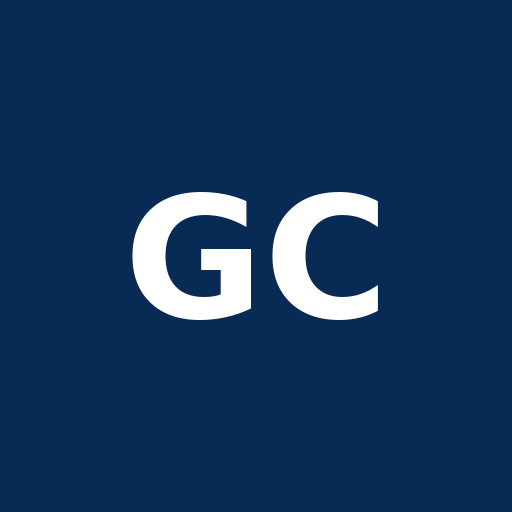
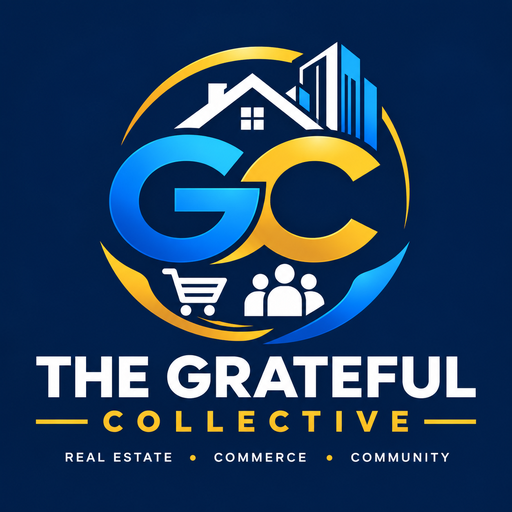
Add files via upload

diff --git a/index.html b/index.html
@@ -291,6 +291,16 @@ input,select,textarea{color:#102f50;border-color:#9fbce0}input::placeholder,text
 #newPupilRequirementsWrap h4{margin:0 0 6px;color:#123c63}
 #newPupilRequirementsWrap .formgrid{margin-top:8px}
 #newPupilRequirementsWrap[hidden]{display:none!important}
+
+/* GC card toggles: instant open/close, whole header is tappable */
+.school-collapsible-heading,.school-collapsible-heading *{transition:none!important;animation:none!important}
+.school-collapsible-heading{cursor:pointer;user-select:none;-webkit-tap-highlight-color:transparent;touch-action:manipulation}
+.school-collapsible-heading h3,.school-collapsible-heading .pupil-register-heading{pointer-events:none}
+.school-collapsible-heading .school-card-toggle{pointer-events:none;transition:none!important;animation:none!important}
+.school-collapsible-body[hidden]{display:none!important}
+.gc-mark{overflow:hidden;position:relative;padding:0!important;background:#003366!important;border:2px solid #dba923;box-shadow:none!important}
+.gc-mark img{display:block;width:100%;height:100%;object-fit:contain}
+
 </style>
 <style id="gc-mobile-refinement-css">
 /* Final mobile refinement: keep class-count cards comfortably wide. */
@@ -328,10 +338,10 @@ input,select,textarea{color:#102f50;border-color:#9fbce0}input::placeholder,text
 .school-card-toggle:focus-visible{outline:2px solid var(--blue);outline-offset:2px}
 </style>
 </head><body>
-<section id="auth"><div class="authbox"><div class="logo"><span class="gc-mark">GC</span> THE GRATEFUL <span>COLLECTIVE</span></div><h2 id="authTitle">Sign in to your accounts</h2><p class="muted" id="authHelp">Use your authorized email and password.</p>
+<section id="auth"><div class="authbox"><div class="logo"><span class="gc-mark"><img src="gc-business-logo.png" alt="GC — real estate, commerce and community"></span> THE GRATEFUL <span>COLLECTIVE</span></div><h2 id="authTitle">Sign in to your accounts</h2><p class="muted" id="authHelp">Use your authorized email and password.</p>
 <form id="authForm"><label>Email address</label><input id="email" type="email" autocomplete="username" required placeholder="you@example.com"><label>Password</label><input id="password" type="password" autocomplete="current-password" required minlength="8" placeholder="At least 8 characters"><label style="display:flex;align-items:center;gap:8px;margin:8px 0"><input id="showLoginPassword" type="checkbox" style="width:auto;min-height:0"> SHOW PASSWORD</label><button class="primary" id="authSubmit">Sign in</button></form>
 <div style="margin-top:12px"><button class="soft" id="resetPassword" style="width:100%">Send password reset email</button></div><div id="authError" class="error"></div><div class="notice"><b>Owner access:</b> Create your account through the Supabase dashboard first. Public sign-up is intentionally not offered on this page. Database policies isolate each user's records.</div></div></section>
-<div id="app"><div class="layout"><aside class="side" id="side"><div class="logo"><span class="gc-mark">GC</span> THE GRATEFUL <span>COLLECTIVE</span></div><div class="nav"><button data-page="dashboard">▦ &nbsp; Dashboard</button><div class="navgroup"><div class="navgroup-title">SCHOOL OPERATIONS</div><div class="nav-sub"><button data-page="pupils">♙ &nbsp; Pupils</button><button data-page="lunch">☷ &nbsp; Lunch payments</button><button data-page="tests">✎ &nbsp; Tests &amp; test payments</button><button data-page="school-expenses">▤ &nbsp; School expenses</button></div></div><button data-page="payroll">▤ &nbsp; Workers &amp; payroll</button><button data-page="transactions">⇄ &nbsp; Expenses</button><button data-page="rentals">⌂ &nbsp; Rentals</button><button data-page="shops">▣ &nbsp; Shops</button><button data-page="payables">⇣ &nbsp; Trade payables</button><button data-page="fixed-assets">▦ &nbsp; Fixed assets</button><button data-page="reports">▥ &nbsp; Reports</button><button data-page="users" id="userAdminNav" class="hidden">♙ &nbsp; User management</button><button class="danger" id="signout">Sign out</button><div class="sidefoot">Private online workspace<br>Data syncs through your secure database.</div></aside>
+<div id="app"><div class="layout"><aside class="side" id="side"><div class="logo"><span class="gc-mark"><img src="gc-business-logo.png" alt="GC — real estate, commerce and community"></span> THE GRATEFUL <span>COLLECTIVE</span></div><div class="nav"><button data-page="dashboard">▦ &nbsp; Dashboard</button><div class="navgroup"><div class="navgroup-title">SCHOOL OPERATIONS</div><div class="nav-sub"><button data-page="pupils">♙ &nbsp; Pupils</button><button data-page="lunch">☷ &nbsp; Lunch payments</button><button data-page="tests">✎ &nbsp; Tests &amp; test payments</button><button data-page="school-expenses">▤ &nbsp; School expenses</button></div></div><button data-page="payroll">▤ &nbsp; Workers &amp; payroll</button><button data-page="transactions">⇄ &nbsp; Expenses</button><button data-page="rentals">⌂ &nbsp; Rentals</button><button data-page="shops">▣ &nbsp; Shops</button><button data-page="payables">⇣ &nbsp; Trade payables</button><button data-page="fixed-assets">▦ &nbsp; Fixed assets</button><button data-page="reports">▥ &nbsp; Reports</button><button data-page="users" id="userAdminNav" class="hidden">♙ &nbsp; User management</button><button class="danger" id="signout">Sign out</button><div class="sidefoot">Private online workspace<br>Data syncs through your secure database.</div></aside>
 <main class="main"><header class="top"><div style="display:flex;gap:10px;align-items:center"><button class="soft desktoggle" id="sideToggle" aria-label="Toggle sidebar">☰</button><div><h1 id="pageTitle">Dashboard</h1><div class="small muted" id="who"></div></div></div></header><div class="content">
 <section class="page" id="page-dashboard"><div class="head"><div><h2>Company financial overview</h2><p>Grateful Collective company accounts across school operations, rentals, shops, payroll and expenses.</p></div></div>
 <div class="gc-dashboard-tools panel"><div class="gc-dash-filter"><div><label for="gcDashPeriod">Dashboard period</label><select id="gcDashPeriod"><option value="all">All recorded time</option><option value="month">This month</option><option value="term">This term (manual date range)</option><option value="year">This year</option><option value="custom">Custom date range</option></select></div><div><label for="gcDashFrom">From</label><input id="gcDashFrom" type="date"></div><div><label for="gcDashTo">To</label><input id="gcDashTo" type="date"></div><button class="primary" type="button" id="gcDashApply">Apply dates</button></div><p class="small muted">Financial cards and trend visuals use recorded transactions for the selected period. Outstanding balances are shown separately and are not counted as cash received.</p></div>
@@ -960,7 +970,7 @@ document.getElementById('gcAssetExport')?.addEventListener('click',()=>{const ro
     head.appendChild(heading);
     const toggle=document.createElement('button');toggle.type='button';toggle.className='school-card-toggle';toggle.textContent='+';toggle.setAttribute('aria-label','Open '+label);toggle.setAttribute('aria-expanded','false');
     head.appendChild(toggle);panel.insertBefore(head,panel.firstChild);panel.appendChild(body);body.hidden=true;
-    toggle.addEventListener('click',()=>{const opening=body.hidden;body.hidden=!opening;toggle.textContent=opening?'−':'+';toggle.setAttribute('aria-expanded',String(opening));toggle.setAttribute('aria-label',(opening?'Close ':'Open ')+label)});
+    const togglePanel=()=>{const opening=body.hidden;body.hidden=!opening;toggle.textContent=opening?'−':'+';toggle.setAttribute('aria-expanded',String(opening));toggle.setAttribute('aria-label',(opening?'Close ':'Open ')+label)};toggle.addEventListener('click',e=>{e.stopPropagation();togglePanel()});head.addEventListener('click',e=>{if(e.target.closest('a,input,select,textarea,form'))return;togglePanel()});head.setAttribute('role','button');head.setAttribute('tabindex','0');head.setAttribute('aria-label','Open or close '+label);head.addEventListener('keydown',e=>{if(e.key==='Enter'||e.key===' '){e.preventDefault();togglePanel()}});
     panel.dataset.collapsibleReady='1';
   }
   const feeForm=document.getElementById('gradeFeeForm');if(feeForm){const panel=feeForm.closest('.panel');makeCollapsible(panel,panel?.querySelector('h3'),'FEES BY GRADE')}
@@ -974,7 +984,7 @@ document.getElementById('gcAssetExport')?.addEventListener('click',()=>{const ro
 
 <script>
 (function(){
-  function collapse(panel,label,openInitially){if(!panel||panel.dataset.payrollCollapseReady==='1')return;const heading=panel.querySelector(':scope > h3, :scope > .pupil-form-heading, :scope > .pupil-register-heading');if(!heading)return;const body=document.createElement('div');body.className='school-collapsible-body';let n=heading.nextSibling;while(n){const next=n.nextSibling;body.appendChild(n);n=next;}const head=document.createElement('div');head.className='school-collapsible-heading';heading.parentNode.removeChild(heading);head.appendChild(heading);const b=document.createElement('button');b.type='button';b.className='school-card-toggle';b.textContent=openInitially?'−':'+';b.setAttribute('aria-expanded',String(!!openInitially));b.setAttribute('aria-label',(openInitially?'Close ':'Open ')+label);head.appendChild(b);panel.insertBefore(head,panel.firstChild);panel.appendChild(body);body.hidden=!openInitially;b.addEventListener('click',()=>{const opening=body.hidden;body.hidden=!opening;b.textContent=opening?'−':'+';b.setAttribute('aria-expanded',String(opening));b.setAttribute('aria-label',(opening?'Close ':'Open ')+label)});panel.dataset.payrollCollapseReady='1';}
+  function collapse(panel,label,openInitially){if(!panel||panel.dataset.payrollCollapseReady==='1')return;const heading=panel.querySelector(':scope > h3, :scope > .pupil-form-heading, :scope > .pupil-register-heading');if(!heading)return;const body=document.createElement('div');body.className='school-collapsible-body';let n=heading.nextSibling;while(n){const next=n.nextSibling;body.appendChild(n);n=next;}const head=document.createElement('div');head.className='school-collapsible-heading';heading.parentNode.removeChild(heading);head.appendChild(heading);const b=document.createElement('button');b.type='button';b.className='school-card-toggle';b.textContent=openInitially?'−':'+';b.setAttribute('aria-expanded',String(!!openInitially));b.setAttribute('aria-label',(openInitially?'Close ':'Open ')+label);head.appendChild(b);panel.insertBefore(head,panel.firstChild);panel.appendChild(body);body.hidden=!openInitially;const togglePanel=()=>{const opening=body.hidden;body.hidden=!opening;b.textContent=opening?'−':'+';b.setAttribute('aria-expanded',String(opening));b.setAttribute('aria-label',(opening?'Close ':'Open ')+label)};b.addEventListener('click',e=>{e.stopPropagation();togglePanel()});head.addEventListener('click',e=>{if(e.target.closest('a,input,select,textarea,form'))return;togglePanel()});head.setAttribute('role','button');head.setAttribute('tabindex','0');head.setAttribute('aria-label','Open or close '+label);head.addEventListener('keydown',e=>{if(e.key==='Enter'||e.key===' '){e.preventDefault();togglePanel()}});panel.dataset.payrollCollapseReady='1';}
   function init(){const root=document.getElementById('page-payroll');if(!root)return;const panels=[...root.querySelectorAll(':scope > .panel, :scope > #gcPayrollExtras > .panel')];const findPanel=label=>panels.find(p=>(p.querySelector(':scope > h3')?.textContent||'').trim().toUpperCase()===label);const add=findPanel('ADD WORKER'),records=findPanel('PAYROLL RECORDS'),register=findPanel('WORKER REGISTER');if(add&&records&&add.nextElementSibling!==records)add.after(records);if(records&&register&&records.nextElementSibling!==register)records.after(register);panels.forEach(p=>{const h=p.querySelector(':scope > h3');if(!h)return;const label=(h.textContent||'').trim().toUpperCase();if(label==='WORKER REGISTER')collapse(p,label,false);else if(label==='PAYROLL RECORDS')collapse(p,label,true);else if(['ADD WORKER','PREPARE PAYROLL','STAFF ADVANCES AND LOANS','DAILY ATTENDANCE AND HOURS'].includes(label))collapse(p,label,false);});}
   if(document.readyState==='loading')document.addEventListener('DOMContentLoaded',init);else init();
   const obs=new MutationObserver(()=>init());obs.observe(document.getElementById('page-payroll')||document.body,{childList:true,subtree:true});
